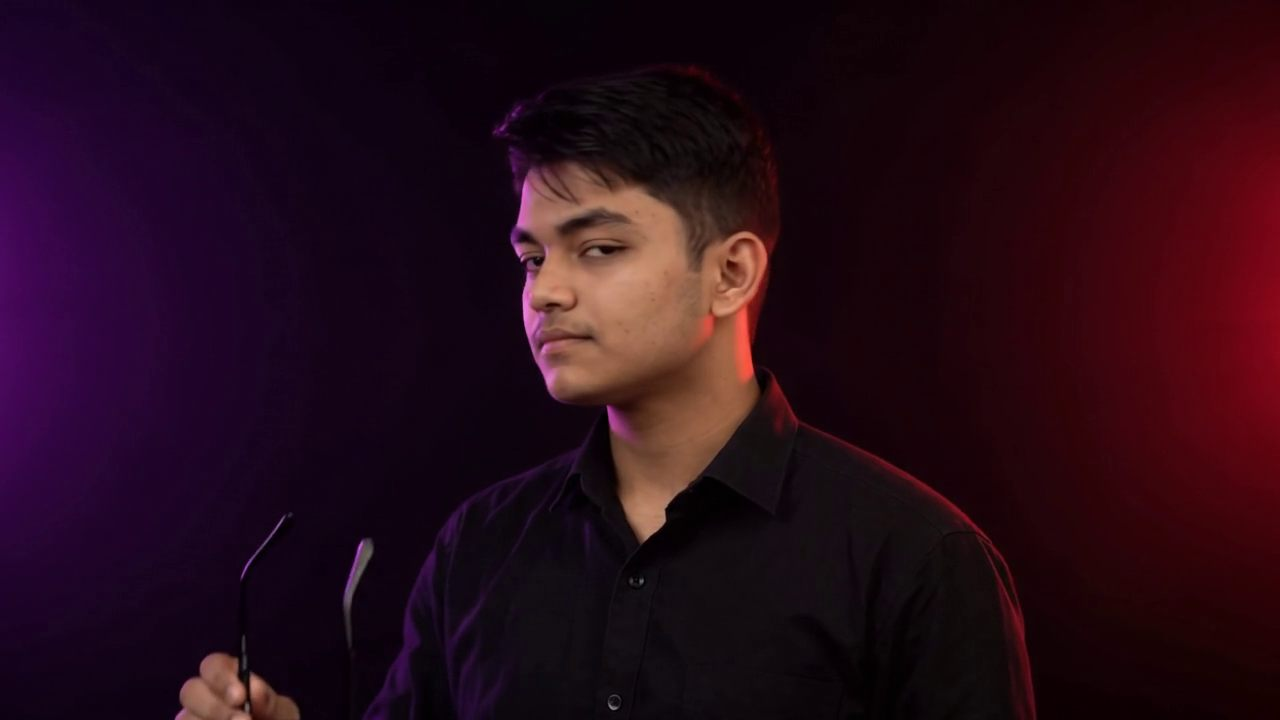
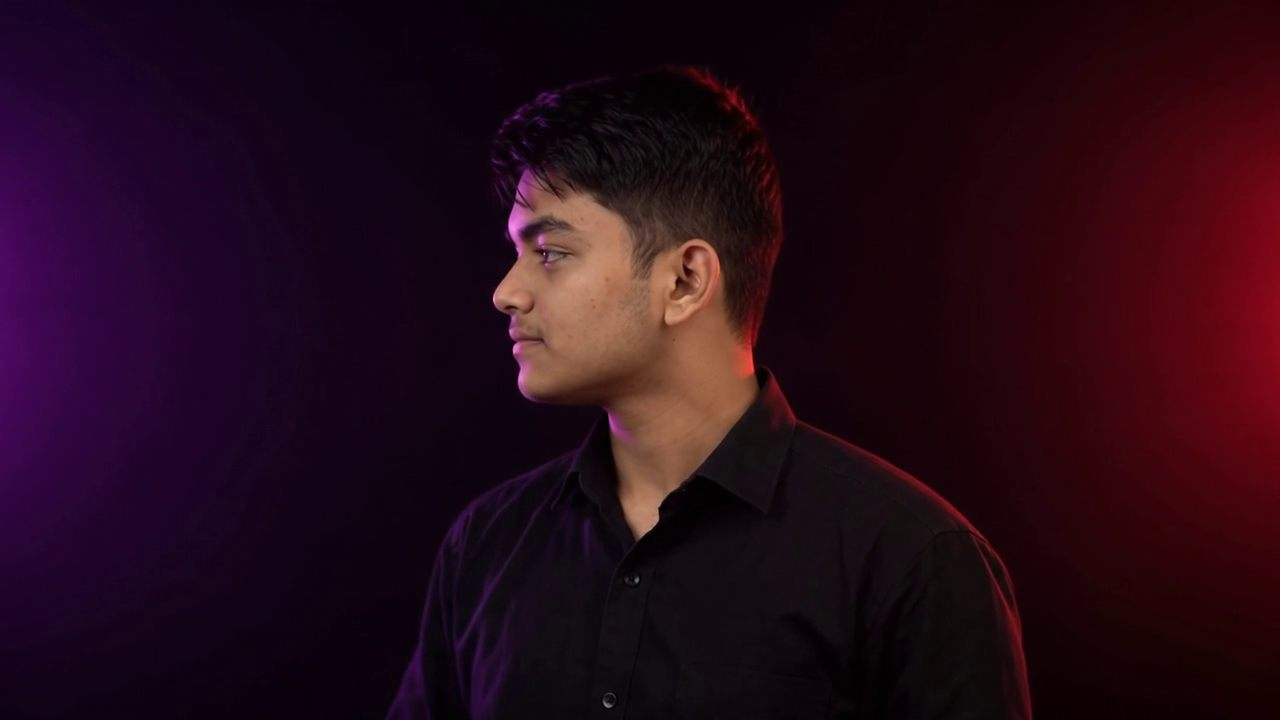
fix(frames): replace closed-eye blinking frames at Projects section with sharp open-eyed frames

diff --git a/index.html b/index.html
@@ -5233,7 +5233,7 @@
 
       function getFramePath(idx) {
         const num = String(idx + 1).padStart(3, '0');
-        return `frames/frame-${num}.jpg`;
+        return `frames/frame-${num}.jpg?v=3`;
       }
 
       // Fast nearest-neighbor frame lookup (O(1) search)
